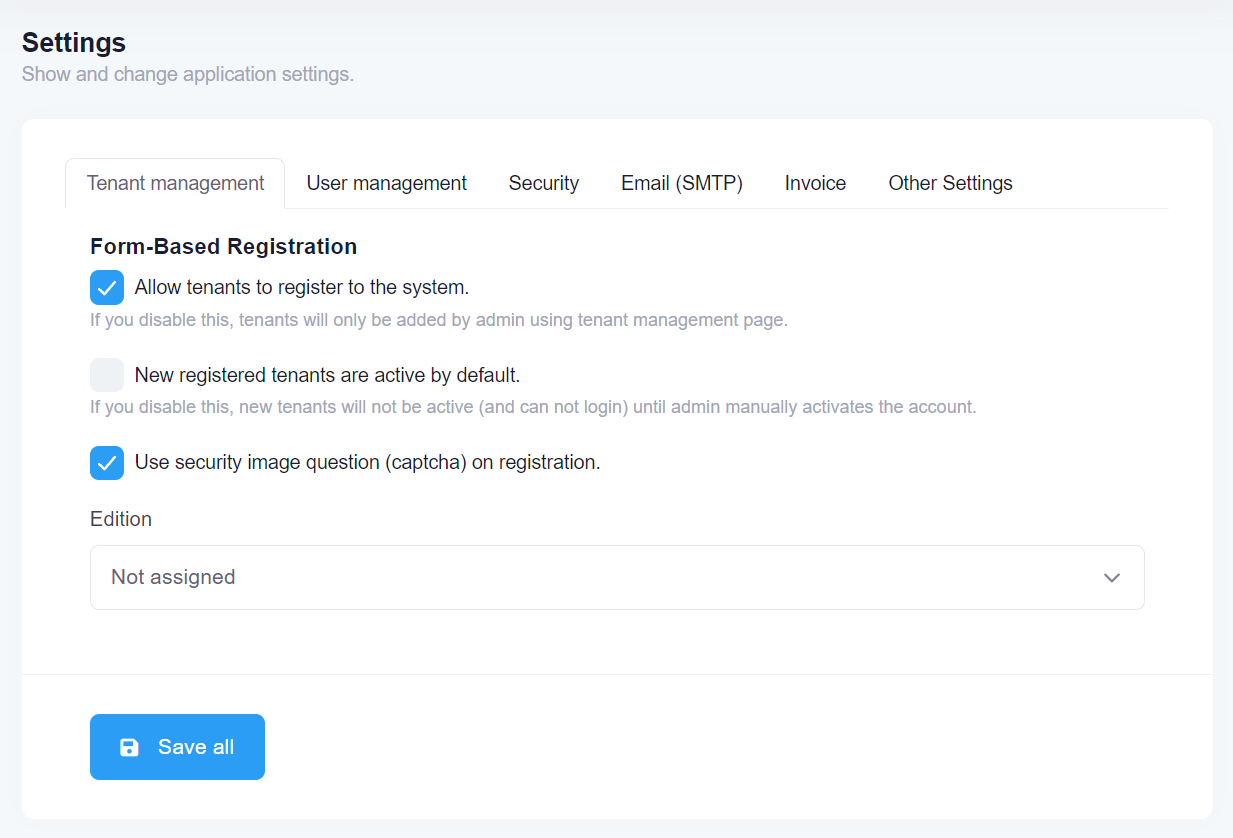
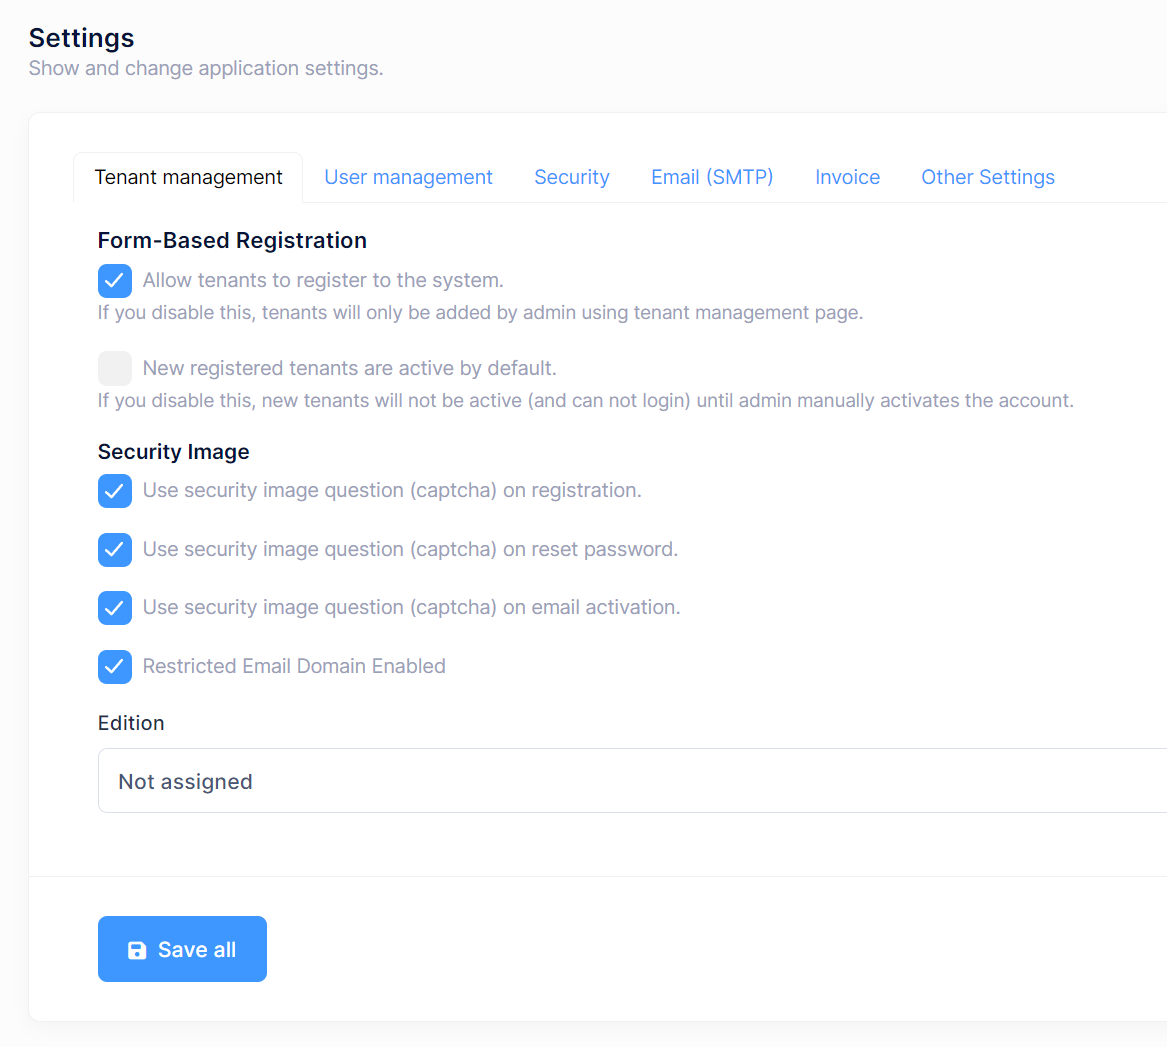
Update settings documents added email restriction section

diff --git a/docs/en/Features-Angular-Host-Settings.md b/docs/en/Features-Angular-Host-Settings.md
@@ -4,7 +4,7 @@ Host settings page is used to configure some system settings.
 
 ## General
 
-<img src="images/host-settings-general-7.png" alt="General Host Settings" class="img-thumbnail" />
+![General Host Settings](images/host-settings-general-7.png)
 
 **Timezone** is an important setting in this page. ASP.NET Zero can work in multiple zones. Each user can see dates and times in their own time zone. Timezone setting in this page allows you to set default time zone for the application including all tenants and users. Tenants and users can change time zone in their own settings. Timezone setting is available only if you are using UTC clock provider. [See documentation](https://aspnetboilerplate.com/Pages/Documents/Timing) to
 switch to UTC. By default ASP.NET Zero uses UnspecifiedClockProvider and in that case ASP.NET Zero doesn't modify dates sent from client to server and vice versa. If you configure your app to use another clock provider, then ASP.NET Zero normalizes dates according to selected clock provider.
@@ -17,17 +17,23 @@ Clock.Provider = ClockProviders.Utc;
 
 ## Tenant Management
 
-<img src="images/host-settings-tenant-management.png" alt="Tenant Management Settings" class="img-thumbnail" />
+![Tenant Management Settings](images/host-settings-tenant-management.png)
 
 You can configure settings related to tenant management under "Tenant Management" tab. You can enable/disable tenants from registering the system. You can also make newly registered tenants active or passive.
 
-Enable/disable captcha on tenant registration page. 
+You can enable/disable captcha on tenant registration page. 
+
+You can enable/disable captcha on tenant reset password page. 
+
+You can enable/disable captcha on tenant email activation page. 
+
+You can enable/disable email domain restriction for users.
 
 You can also select a default edition, so a newly registered tenant will be assigned to this edition automatically unless the tenant subscribes to a specific edition.
 
 ## User Management
 
-<img src="images/host-settings-user-management-4.png" alt="User Management Settings" class="img-thumbnail" />
+![User Management Settings](images/host-settings-user-management-4.png)
 
 User related settings can be configured under this tab. You can force email confirmation for login. You can enable phone number verification. Also, you can enable cookie consent so ASP.NET Zero shows a cookie consent bar for the users to accept cookie policy of your application.
 
@@ -47,7 +53,7 @@ You can also prevent user's new password from being same as any of last x passwo
 
 ## Security
 
-<img src="images/host-settings-security-5.png" alt="Security Settings" class="img-thumbnail" />
+![Security Settings](images/host-settings-security-5.png)
 
 **Security** tab in host settings page contains password complexity settings. Host can define system wide password complexity settings in this tab. Each tenant can override this setting in tenant settings page. 
 
@@ -61,7 +67,7 @@ This tab also contains user lock-out settings and two factor login settings as w
 
 ## Email
 
-<img src="images/host-settings-email.png" alt="Email Settings" class="img-thumbnail" />
+![Email Settings](images/host-settings-email.png)
 
 **Email(SMTP)** tab allows you to configure smtp settings for your app. ASP.NET Zero uses MailKit to send emails. By default, smtp certificate validation is disabled in **YourProjectNameMailKitSmtpBuilder.cs** class. If you are able to validate mail server's certificate, you need to modify **ServerCertificateValidationCallback** in **YourProjectNameMailKitSmtpBuilder.cs**.
 
@@ -69,13 +75,13 @@ If you want each Tenant to configure their own SMTP settings, you can go to **Yo
 
 ## Invoice
 
-<img src="images/host-settings-invoice-1.png" alt="Invoice Settings" class="img-thumbnail" />
+![Invoice Settings](images/host-settings-invoice-1.png)
 
 Under this tab, you can configure the legal name and the address of the Host company which will be displayed on the generated invoices as the service provider.
 
 ## Other settings
 
-<img src="images/host-settings-others.png" alt="Other Settings" class="img-thumbnail" />
+![Other Settings](images/host-settings-others.png)
 
 Under this tab, there is only one setting which is used to enable/disable quick theme selection icon on the layout of ASP.NET Zero next to language selection dropdown. 
 

diff --git a/docs/en/Features-Mvc-Core-Host-Settings.md b/docs/en/Features-Mvc-Core-Host-Settings.md
@@ -4,7 +4,7 @@ Host settings page is used to configure some system settings.
 
 ## General
 
-<img src="images/host-settings-general-7.png" alt="General Host Settings" class="img-thumbnail" />
+![General Host Settings](images/host-settings-general-7.png)
 
 **Timezone** is an important setting in this page. ASP.NET Zero can work in multiple zones. Each user can see dates and times in their own time zone. Timezone setting in this page allows you to set default time zone for the application including all tenants and users. Tenants and users can change time zone in their own settings. Timezone setting is available only if you are using UTC clock provider. [See documentation](https://aspnetboilerplate.com/Pages/Documents/Timing) to
 switch to UTC. By default ASP.NET Zero uses UnspecifiedClockProvider and in that case ASP.NET Zero doesn't modify dates sent from client to server and vice versa. If you configure your app to use another clock provider, then ASP.NET Zero normalizes dates according to selected clock provider.
@@ -17,17 +17,23 @@ Clock.Provider = ClockProviders.Utc;
 
 ## Tenant Management
 
-<img src="images/host-settings-tenant-management.png" alt="Tenant Management Settings" class="img-thumbnail" />
+![Tenant Management Settings](images/host-settings-tenant-management.png)
 
 You can configure settings related to tenant management under "Tenant Management" tab. You can enable/disable tenants from registering the system. You can also make newly registered tenants active or passive.
 
-Enable/disable captcha on tenant registration page. 
+You can enable/disable captcha on tenant registration page. 
+
+You can enable/disable captcha on tenant reset password page. 
+
+You can enable/disable captcha on tenant email activation page. 
+
+You can enable/disable email domain restriction for users.
 
 You can also select a default edition, so a newly registered tenant will be assigned to this edition automatically unless the tenant subscribes to a specific edition.
 
 ## User Management
 
-<img src="images/host-settings-user-management-4.png" alt="User Management Settings" class="img-thumbnail" />
+![User Management Settings](images/host-settings-user-management-4.png)
 
 User related settings can be configured under this tab. You can force email confirmation for login. You can enable phone number verification. Also, you can enable cookie consent so ASP.NET Zero shows a cookie consent bar for the users to accept cookie policy of your application.
 
@@ -47,7 +53,7 @@ You can also prevent user's new password from being same as any of last x passwo
 
 ## Security
 
-<img src="images/host-settings-security-5.png" alt="Security Settings" class="img-thumbnail" />
+![Security Settings](images/host-settings-security-5.png)
 
 **Security** tab in host settings page contains password complexity settings. Host can define system wide password complexity settings in this tab. Each tenant can override this setting in tenant settings page. 
 
@@ -55,7 +61,7 @@ This tab also contains user lock-out settings and two factor login settings as w
 
 ## Email
 
-<img src="images/host-settings-email.png" alt="Email Settings" class="img-thumbnail" />
+![Email Settings](images/host-settings-email.png)
 
 **Email(SMTP)** tab allows you to configure smtp settings for your app. ASP.NET Zero uses MailKit to send emails. By default, smtp certificate validation is disabled in **YourProjectNameMailKitSmtpBuilder.cs** class. If you are able to validate mail server's certificate, you need to modify **ServerCertificateValidationCallback** in **YourProjectNameMailKitSmtpBuilder.cs**.
 
@@ -63,13 +69,13 @@ If you want each Tenant to configure their own SMTP settings, you can go to **Yo
 
 ## Invoice
 
-<img src="images/host-settings-invoice-1.png" alt="Invoice Settings" class="img-thumbnail" />
+![Invoice Settings](images/host-settings-invoice-1.png)
 
 Under this tab, you can configure the legal name and the address of the Host company which will be displayed on the generated invoices as the service provider.
 
 ## Other settings
 
-<img src="images/host-settings-others.png" alt="Other Settings" class="img-thumbnail" />
+![Other Settings](images/host-settings-others.png)
 
 Under this tab, there is only one setting which is used to enable/disable quick theme selection icon on the layout of ASP.NET Zero next to language selection dropdown. 
 

diff --git a/docs/en/Features-Angular-Tenant-Settings.md b/docs/en/Features-Angular-Tenant-Settings.md
@@ -4,7 +4,7 @@ Tenant settings page is used to configure tenant based settings.
 
 ## General
 
-<img src="images/tenant-settings-core-general.png" alt="General settings" class="img-thumbnail" />
+![General settings](images/tenant-settings-core-general.png)
 
 Under the general tab, each tenant can configure default time zone setting for users of that tenant. Each user of the tenant can also change this setting for their own account. 
 
@@ -12,19 +12,21 @@ If tenant doesn't make any change, time zone setting of host will be used.
 
 ## Appearance
 
-<img src="images/tenant-settings-core-appearance.png" alt="Appearance settings" class="img-thumbnail" />
+![Appearance settings](images/tenant-settings-core-appearance.png)
 
 Under the appearance tab, each tenant can upload a logo file and upload a custom css file. In this way, each tenant can change the look of the application only for their account. Uploaded logo and css files can be easily removed by using the clear button.
 
 ## User Management
 
-<img src="images/tenant-settings-core-user-management-3.png" alt="User management settings" class="img-thumbnail" />
+![User management settings](images/tenant-settings-core-user-management-3.png)
 
 Under the user management tab, each tenant can configure some user management settings related to their account. Each tenant can enable/disable user registration for their account. Tenants can also make newly registered users for their account active or passive by default.
 
-Each tenant can also enable/disable captcha on user registration and login page for their account.
+Each tenant can also enable/disable captcha on user registration, reset password, email activation and login page for their account.
 
 > Note: **Token Based Authentication** has `ReCaptchaIgnoreWhiteList` located in `WebConsts`. If you want a client app to be ignored for reCaptcha control during login, add a value to `ReCaptchaIgnoreWhiteList` and send the same value in the `User-Agent` request header for your login request from the client app. You can check the Xamarin mobile app in AspNet Zero to see how `ReCaptchaIgnoreWhiteList` works.
+
+Each tenant can also enable or disable email restriction for their own account. When enabled, it can specify the email domain allowed for email restriction.
 
 Each tenant can also enable/disable session timeout control for tenant users. If it is enable and the user does not provide any input to the site during the timeout period, a countdown modal will be displayed to user. If the user still does not provide any input to the site during the modal countdown period, user will be log out.
 
@@ -36,13 +38,13 @@ Each tenant can allow tenant users to use Gravatar profile picture or not.
 
 ## Security
 
-<img src="images/tenant-settings-core-security.png" alt="User management settings" class="img-thumbnail" />
+![Security settings](images/tenant-settings-core-security.png)
 
 Security tab contains password complexity settings. Each tenant can define password complexity settings in this tab for their account. Each tenant can also configure user lock out settings.
 
 ## Invoice
 
-<img src="images/tenant-settings-core-invoice.png" alt="User management settings" class="img-thumbnail" />
+![Invoice settings](images/tenant-settings-core-invoice.png)
 
 Under this tab, each tenant can configure their legal name, tax number and address which will be displayed on the generated invoices. Note that, tenants can only generate invoice if they made a payment for a subscription.
 

diff --git a/docs/en/Features-Mvc-Core-Tenant-Settings.md b/docs/en/Features-Mvc-Core-Tenant-Settings.md
@@ -4,7 +4,7 @@ Tenant settings page is used to configure tenant based settings.
 
 ## General
 
-<img src="images/tenant-settings-core-general.png" alt="General settings" class="img-thumbnail" />
+![General settings](images/tenant-settings-core-general.png)
 
 Under the general tab, each tenant can configure default time zone setting for users of that tenant. Each user of the tenant can also change this setting for their own account. 
 
@@ -12,19 +12,21 @@ If tenant doesn't make any change, time zone setting of host will be used.
 
 ## Appearance
 
-<img src="images/tenant-settings-core-appearance.png" alt="Appearance settings" class="img-thumbnail" />
+![Appearance settings](images/tenant-settings-core-appearance.png)
 
 Under the appearance tab, each tenant can upload a logo file and upload a custom css file. In this way, each tenant can change the look of the application only for their account. Uploaded logo and css files can be easily removed by using the clear button.
 
 ## User Management
 
-<img src="images/tenant-settings-core-user-management-3.png" alt="User management settings" class="img-thumbnail" />
+![User management settings](images/tenant-settings-core-user-management-3.png)
 
 Under the user management tab, each tenant can configure some user management settings related to their account. Each tenant can enable/disable user registration for their account. Tenants can also make newly registered users for their account active or passive by default.
 
-Each tenant can also enable/disable captcha on user registration and login page for their account.
+Each tenant can also enable/disable captcha on user registration, reset password, email activation and login page for their account.
 
 > Note: **Token Based Authentication** has `ReCaptchaIgnoreWhiteList` located in `WebConsts`. If you want a client app to be ignored for reCaptcha control during login, add a value to `ReCaptchaIgnoreWhiteList` and send the same value in the `User-Agent` request header for your login request from the client app. You can check the Xamarin mobile app in AspNet Zero to see how `ReCaptchaIgnoreWhiteList` works.
+
+Each tenant can also enable or disable email restriction for their own account. When enabled, it can specify the email domain allowed for email restriction.
 
 Each tenant can also enable/disable session timeout control. If it is enable and the user does not provide any input to the site during the timeout period, a countdown modal will be displayed to user. If the user still does not provide any input to the site during the modal countdown period, user will be log out.
 
@@ -36,13 +38,13 @@ Each tenant can allow tenant users to use Gravatar profile picture or not.
 
 ## Security
 
-<img src="images/tenant-settings-core-security.png" alt="User management settings" class="img-thumbnail" />
+![Security settings](images/tenant-settings-core-security.png)
 
 Security tab contains password complexity settings. Each tenant can define password complexity settings in this tab for their account. Each tenant can also configure user lock out settings.
 
 ## Invoice
 
-<img src="images/tenant-settings-core-invoice.png" alt="User management settings" class="img-thumbnail" />
+![Invoice settings](images/tenant-settings-core-invoice.png)
 
 Under this tab, each tenant can configure their legal name, tax number and address which will be displayed on the generated invoices. Note that, tenants can only generate invoice if they made a payment for a subscription.
 
